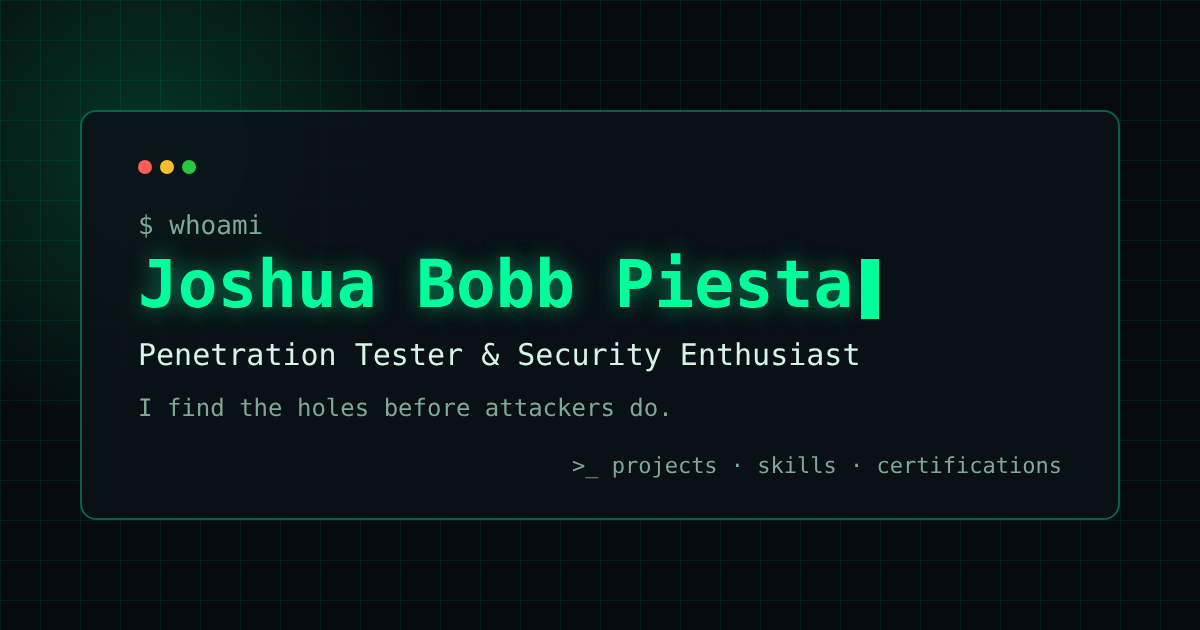
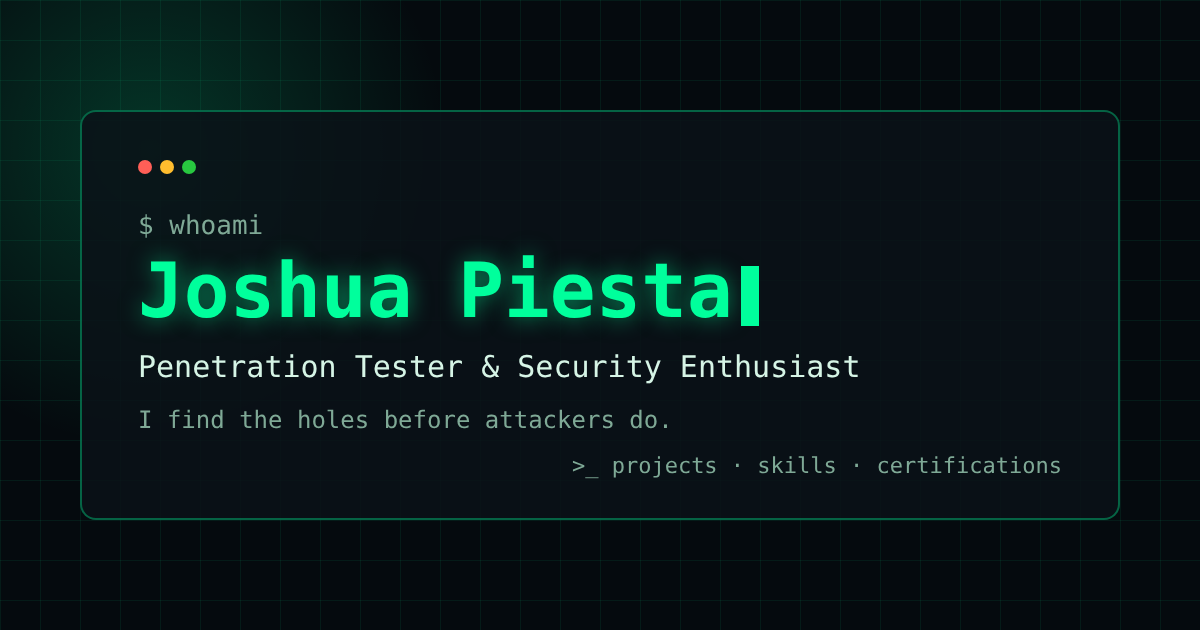
Use 'Joshua Piesta' in static title, meta tags and social preview image
Claude-Session: https://claude.ai/code/session_018NcGdhHxyN8nnj3fYuEE2T

Changed region(s): [[0.1233, 0.3921, 0.74, 0.5127], [0.0925, 0.5429, 0.7092, 0.6032], [0.0925, 0.6333, 0.555, 0.6937]]

diff --git a/index.html b/index.html
@@ -3,13 +3,13 @@
 <head>
   <meta charset="utf-8">
   <meta name="viewport" content="width=device-width, initial-scale=1">
-  <title>Joshua Bobb Piesta — Portfolio</title>
-  <meta name="description" content="Portfolio of Joshua Bobb Piesta, Penetration Tester and former SOC analyst.">
+  <title>Joshua Piesta — Portfolio</title>
+  <meta name="description" content="Portfolio of Joshua Piesta, Penetration Tester and former SOC analyst.">
   <meta name="color-scheme" content="dark light">
   <meta name="theme-color" content="#050a0e">
   <!-- Open Graph / social preview. The JS updates these from content/profile.json too. -->
   <meta property="og:type" content="website">
-  <meta property="og:title" content="Joshua Bobb Piesta — Penetration Tester">
+  <meta property="og:title" content="Joshua Piesta — Penetration Tester">
   <meta property="og:description" content="Web, API and mobile application security testing. Experience, certifications and projects.">
   <meta property="og:image" content="assets/img/og.png">
   <meta name="twitter:card" content="summary_large_image">
@@ -62,7 +62,7 @@
       <div class="container hero__grid">
         <div class="hero__text">
           <p class="hero__pre"><span class="prompt">$</span> whoami</p>
-          <h1 class="hero__name glitch" data-bind="name" data-text="Joshua Bobb Piesta">Joshua Bobb Piesta</h1>
+          <h1 class="hero__name glitch" data-bind="name" data-text="Joshua Piesta">Joshua Piesta</h1>
           <p class="hero__title"><span class="prompt">$</span> cat role.txt<br><span class="typed" id="typed-title" data-bind="title"></span><span class="cursor" aria-hidden="true"></span></p>
           <p class="hero__tagline" data-bind="tagline"></p>
           <div class="hero__cta">
@@ -158,7 +158,7 @@
 
   <footer class="footer">
     <div class="container footer__inner">
-      <p>© <span id="year"></span> <span data-bind="name">Joshua Bobb Piesta</span>. Built with plain HTML, CSS and JS. No trackers.</p>
+      <p>© <span id="year"></span> <span data-bind="name">Joshua Piesta</span>. Built with plain HTML, CSS and JS. No trackers.</p>
       <p class="footer__hint">press <kbd>`</kbd> for terminal · try the Konami code</p>
     </div>
   </footer>
